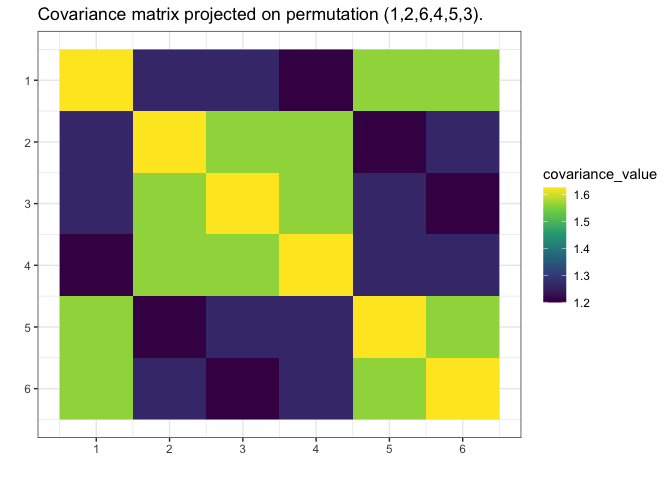
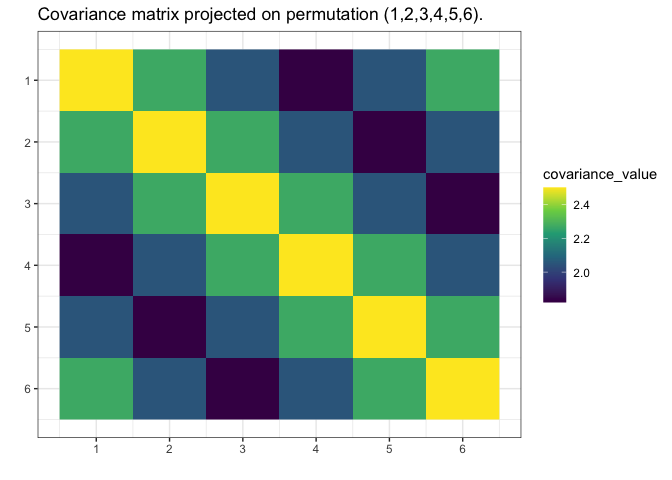
README update

diff --git a/README.md b/README.md
@@ -136,7 +136,7 @@ g <- gips(S, number_of_observations, was_mean_estimated = FALSE)
 g_map <- find_MAP(g, show_progress_bar = TRUE, optimizer = "full")
 #> ================================================================================
 g_map
-#> The permutation (1,2,6,4,5,3) has log posteriori -5.63840470919283 which was found after 720 log_posteriori calculations.
+#> The permutation (1,2,3,4,5,6) was found after 720 log_posteriori calculations, is 2509.07979453551 times more likely than the starting,  permutation.
 
 summary(g_map)$n0
 #> [1] 1
@@ -148,12 +148,12 @@ summary(g_map)$n0 <= 4
   # with the Maximum Likelihood estimator:
 project_matrix(S, g_map[[1]])
 #>          [,1]     [,2]     [,3]     [,4]     [,5]     [,6]
-#> [1,] 1.626103 1.264264 1.264264 1.199515 1.561354 1.561354
-#> [2,] 1.264264 1.626103 1.561354 1.561354 1.199515 1.264264
-#> [3,] 1.264264 1.561354 1.626103 1.561354 1.264264 1.199515
-#> [4,] 1.199515 1.561354 1.561354 1.626103 1.264264 1.264264
-#> [5,] 1.561354 1.199515 1.264264 1.264264 1.626103 1.561354
-#> [6,] 1.561354 1.264264 1.199515 1.264264 1.561354 1.626103
+#> [1,] 2.502065 2.270992 2.051661 1.820588 2.051661 2.270992
+#> [2,] 2.270992 2.502065 2.270992 2.051661 1.820588 2.051661
+#> [3,] 2.051661 2.270992 2.502065 2.270992 2.051661 1.820588
+#> [4,] 1.820588 2.051661 2.270992 2.502065 2.270992 2.051661
+#> [5,] 2.051661 1.820588 2.051661 2.270992 2.502065 2.270992
+#> [6,] 2.270992 2.051661 1.820588 2.051661 2.270992 2.502065
 
 # Plot the found matrix:
 plot(g_map, type = "heatmap")
